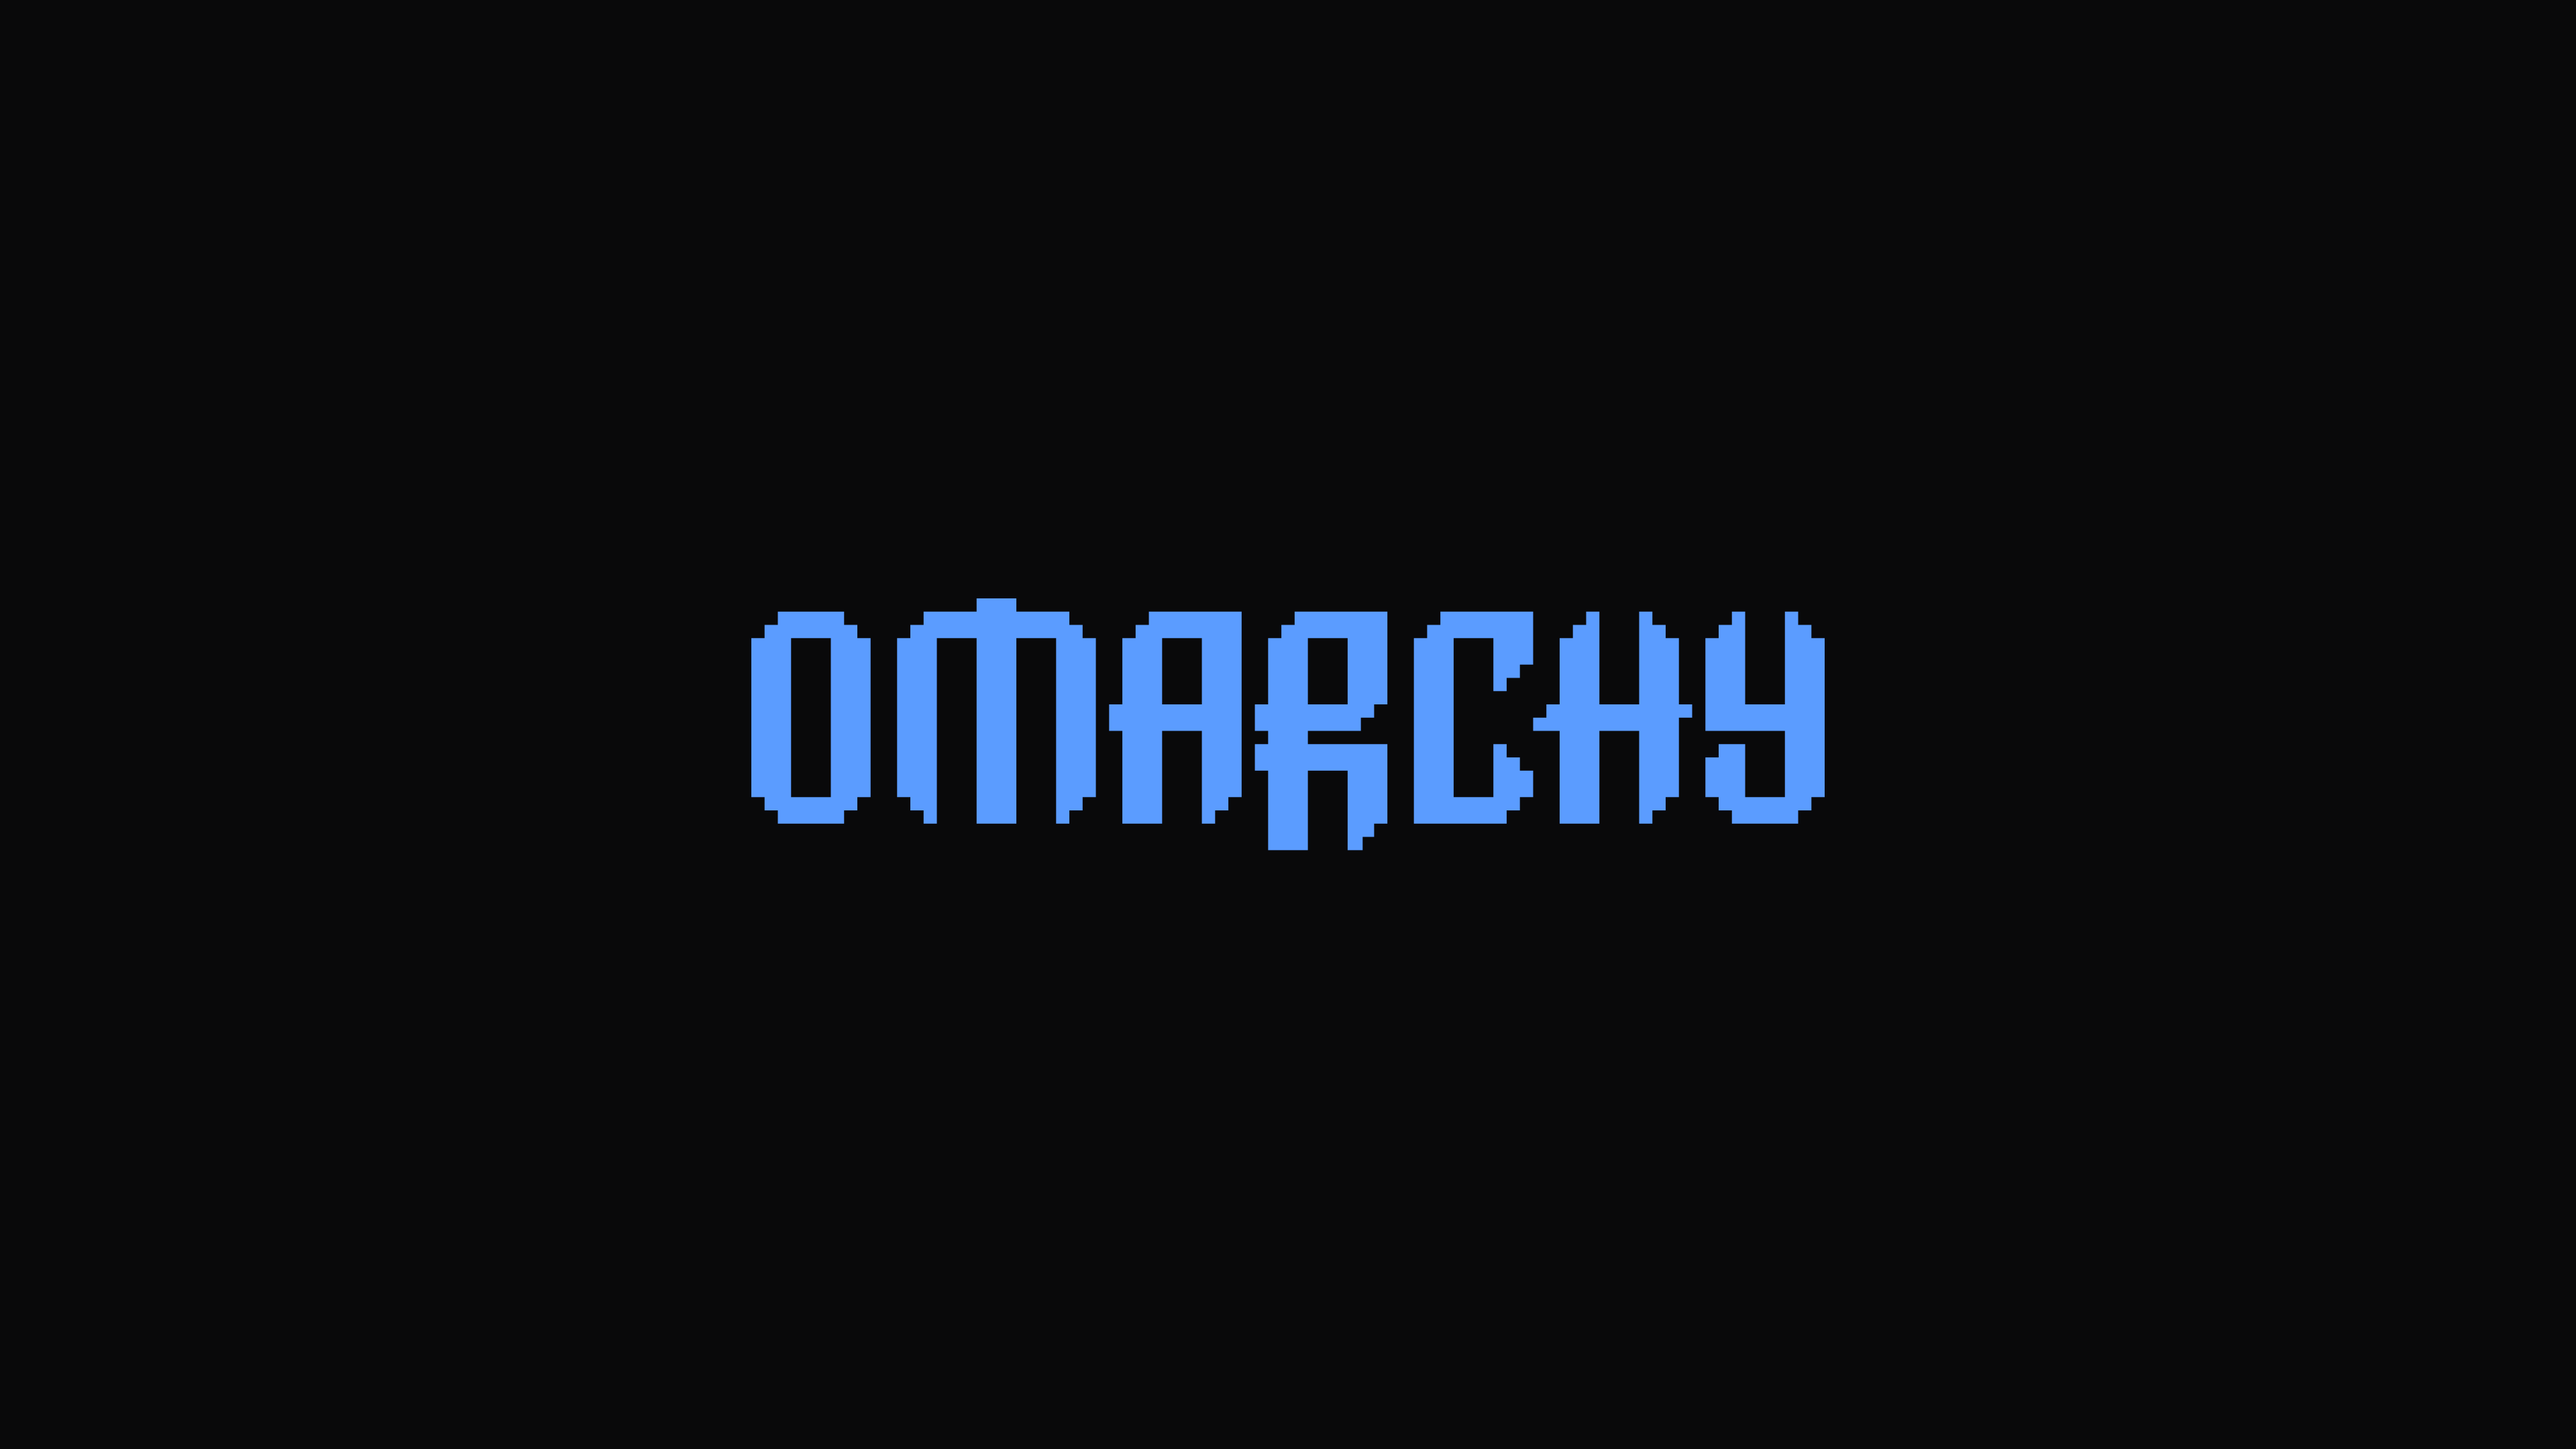
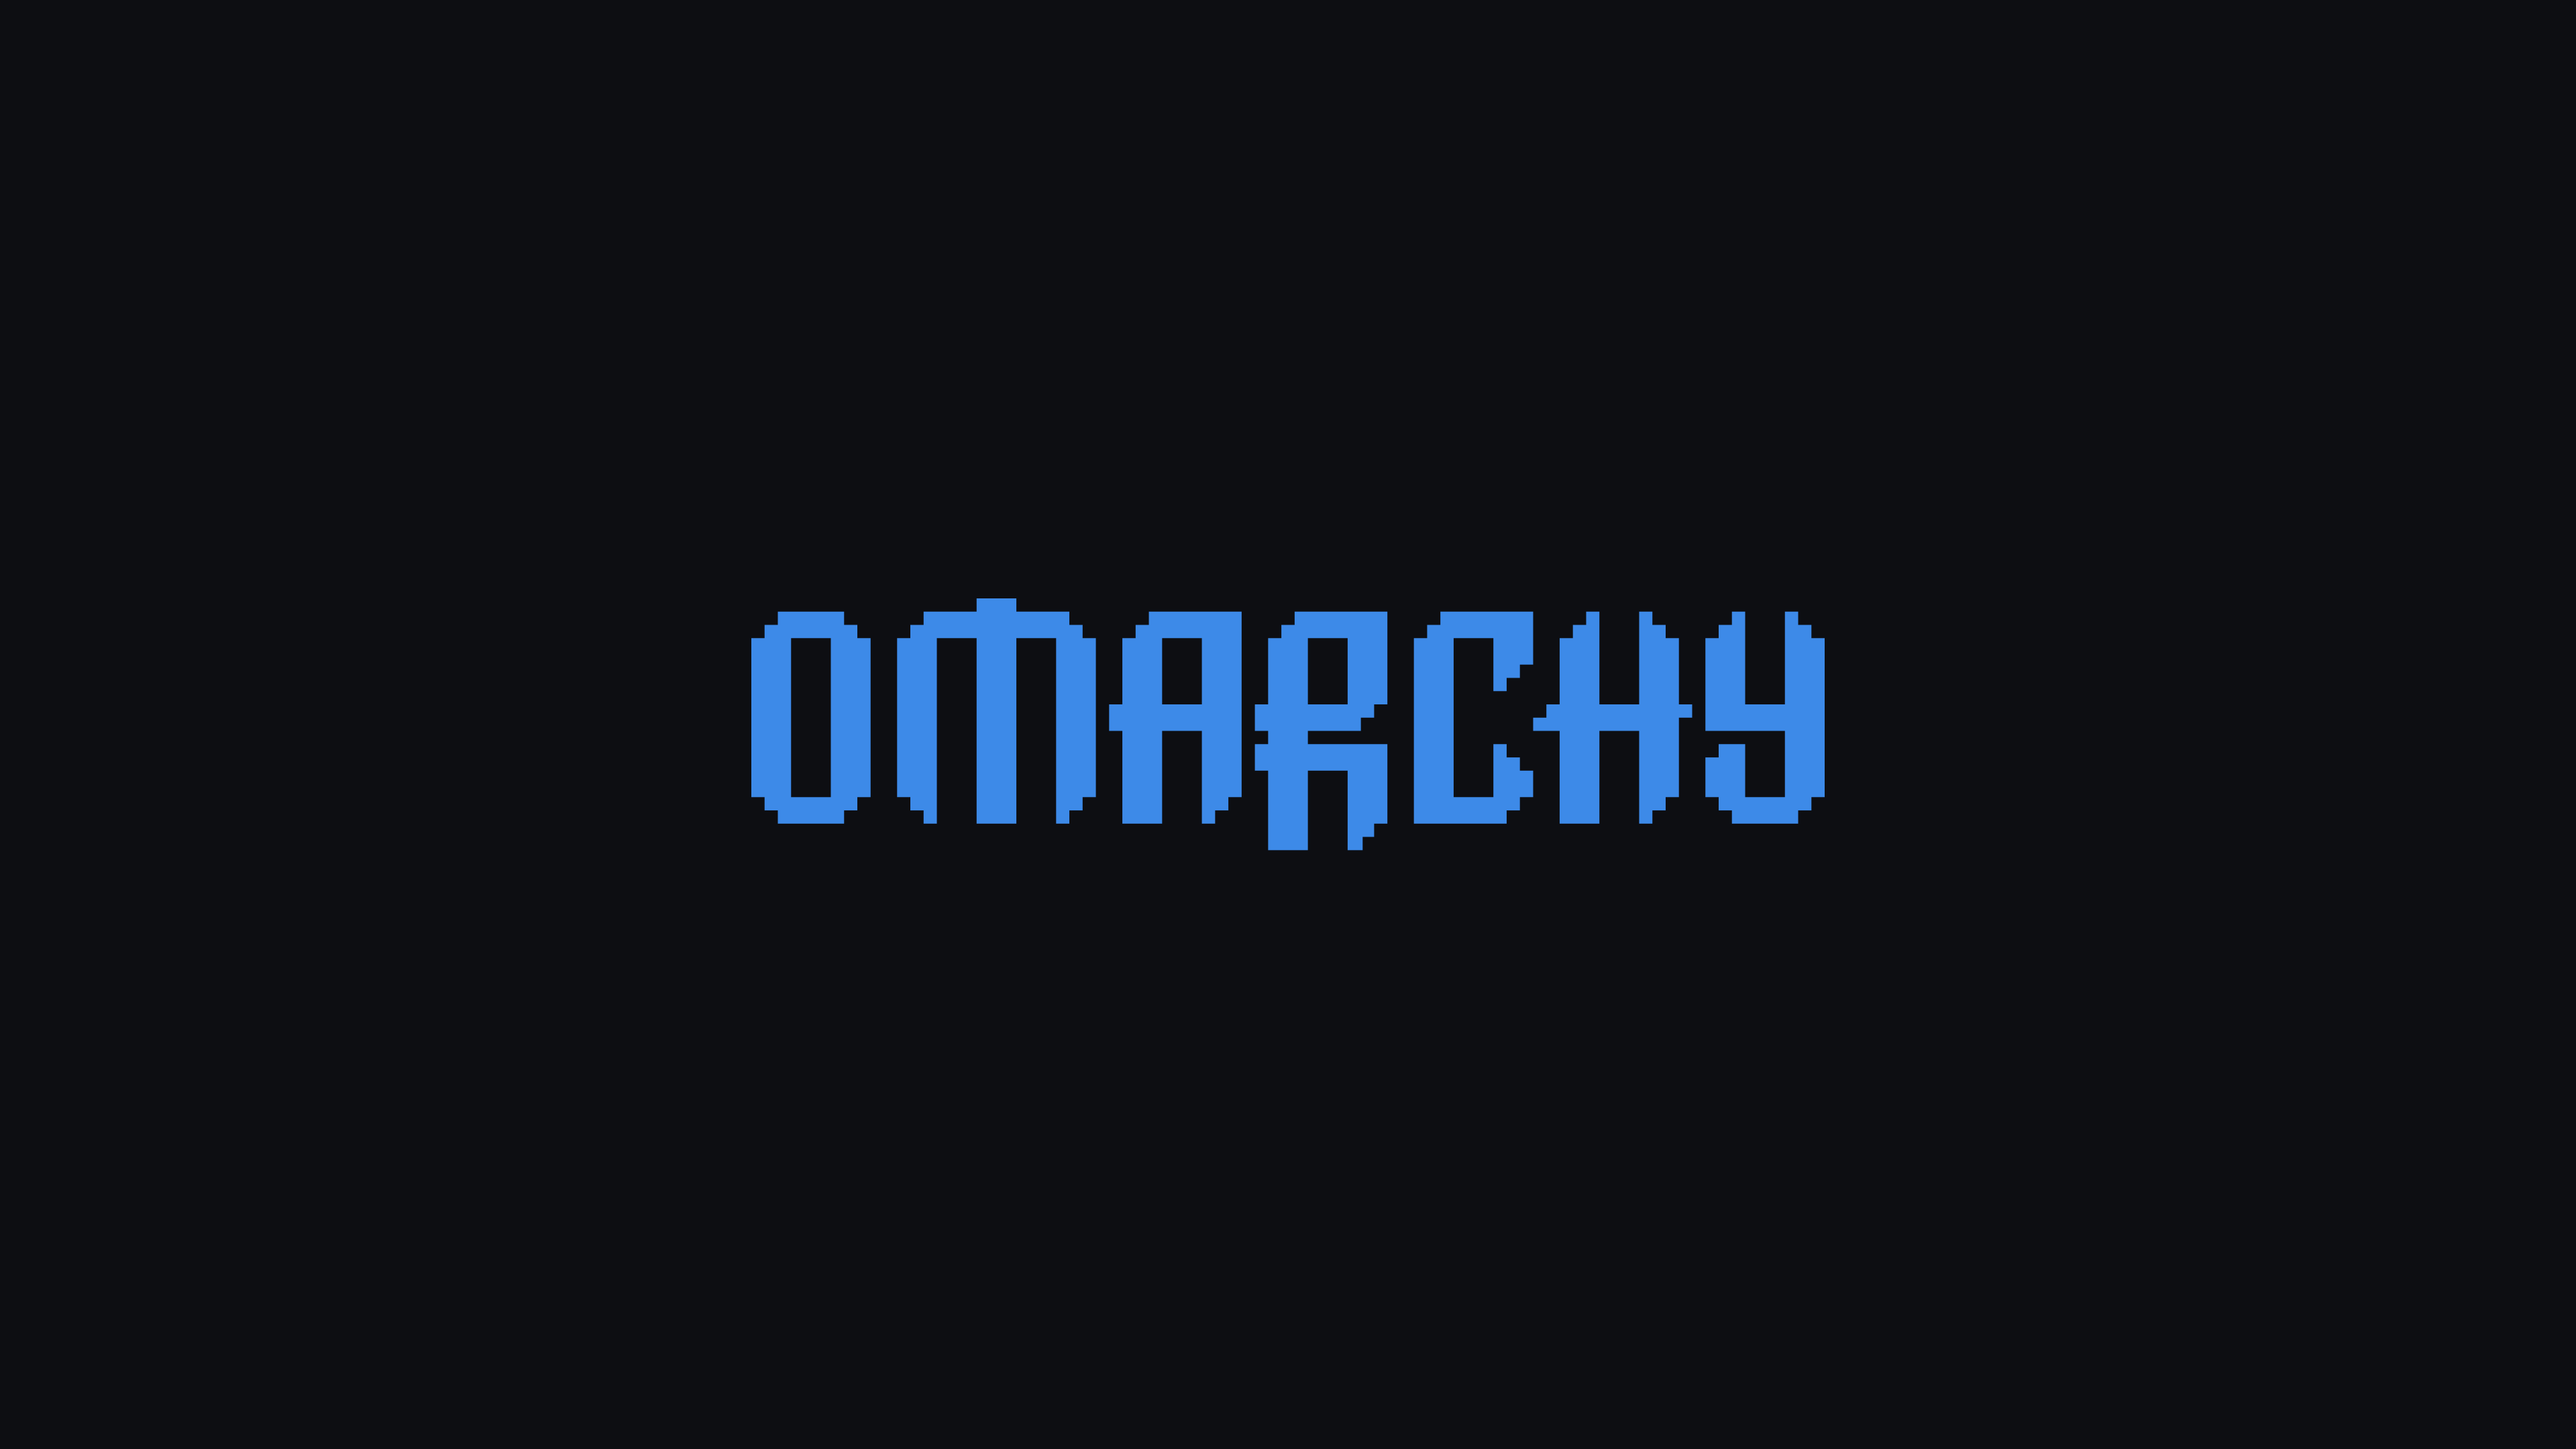
Nyx Dark and Nyx Light take the new Nyx palette: a lighter slate Dark, a darker slate Light, and wallpapers in the new accents

Changed region(s): [[0.2812, 0.4032, 0.7188, 0.5894]]

diff --git a/build-wallpapers.py b/build-wallpapers.py
@@ -5,8 +5,8 @@ import subprocess
 import xml.etree.ElementTree as ET
 
 THEMES = {
-    "nyx-dark": ("#09090a", "#5b9cff"),
-    "nyx-light": ("#f7f7f8", "#2f6fea"),
+    "nyx-dark": ("#0d0e12", "#3d8ae8"),
+    "nyx-light": ("#ecedf2", "#136dcd"),
 }
 
 root = Path(__file__).resolve().parent
